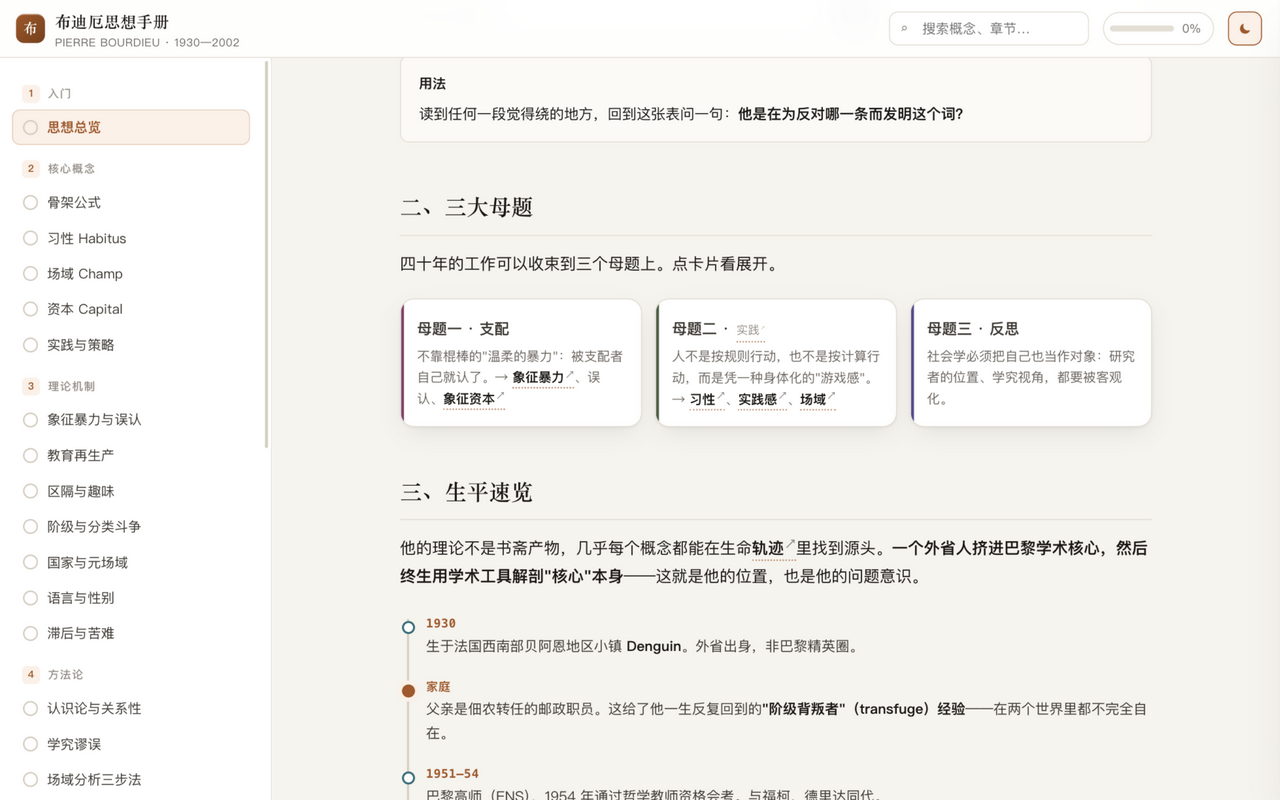
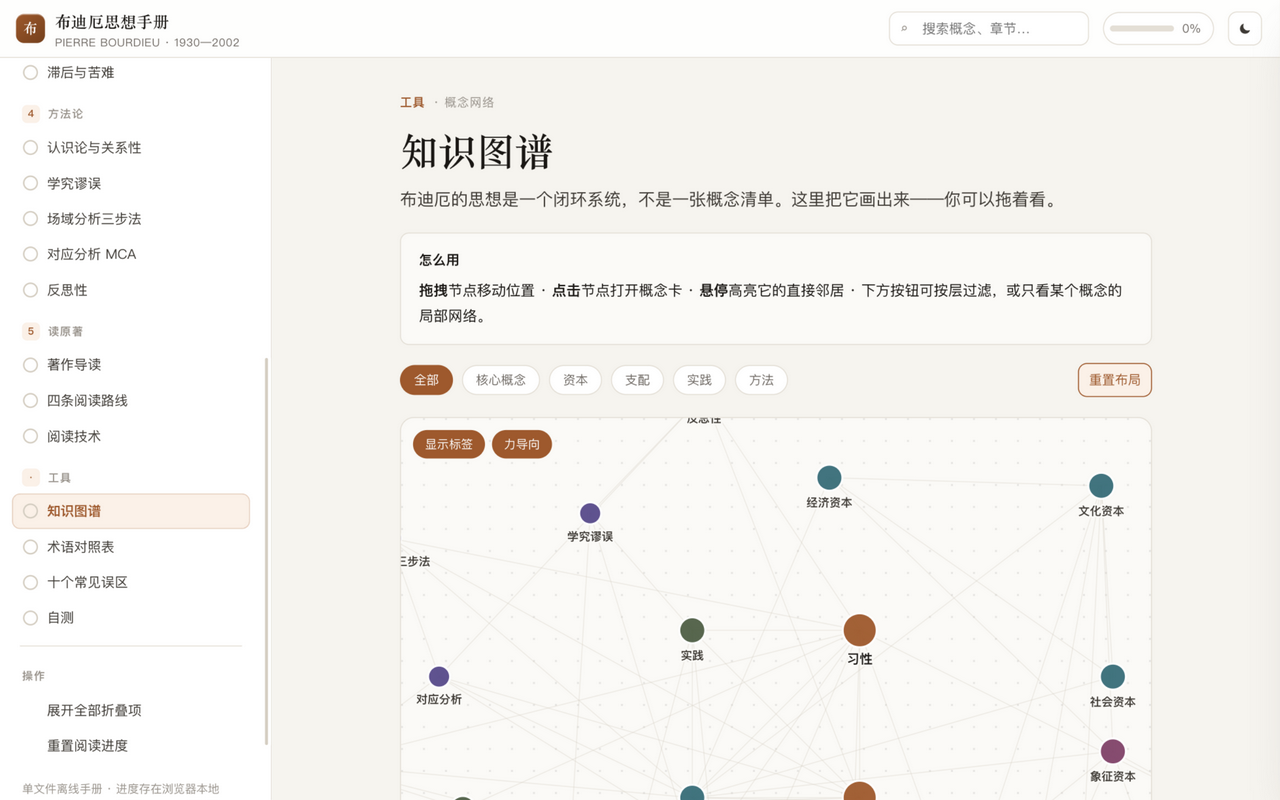
fix: 修正概念图谱截图（此前误截为第一章）；主名改为「渐进式披露型知识手册」，点读手册降级为口语别名

diff --git a/README.md b/README.md
@@ -1,4 +1,4 @@
-# 点读手册 progressive-handbook
+# 渐进式披露型知识手册 progressive-handbook
 
 > **难知识，点着学。**
 
@@ -20,13 +20,13 @@
 
 公众号排版解决美观，不解决门槛；AI 直接生成的长文解决产量，不解决「读到一半卡在一个词上」。
 
-点读手册把解释层从阅读流里拆出来，做成**按需展开的抽屉**：
+渐进式披露型知识手册把解释层从阅读流里拆出来，做成**按需展开的抽屉**：
 
 ```
 遇到不懂的词 → 点它 → 抽屉里看定义和相关概念 → 关掉 → 接着读
 ```
 
-这个形态不是新发明：游戏圈叫它「P社手册」（Paradox 的 nested tooltips），学界叫**渐进披露**（progressive disclosure）。教育技术研究中「纯非线性超文本让读者迷航」的老问题（lost in hyperspace），靠它的**双结构**解决——线性章节主线防迷航，术语抽屉和概念图谱管深度。
+这个形态不是新发明：游戏圈叫它「P社手册」（Paradox 的 nested tooltips），口语里也叫「点读手册」，学名**渐进披露**（progressive disclosure）。教育技术研究中「纯非线性超文本让读者迷航」的老问题（lost in hyperspace），靠它的**双结构**解决——线性章节主线防迷航，术语抽屉和概念图谱管深度。
 
 ## 核心体验
 
@@ -68,7 +68,7 @@ npx skills add Tim-builder/progressive-handbook
 
 **使用**——对你的 Agent 说一句话：
 
-> 帮我把「布迪厄」知识库做成一本点读手册
+> 帮我把「布迪厄」知识库做成一本渐进式披露型知识手册
 
 > 把这套新员工培训资料做成渐进披露式的交互学习页
 
